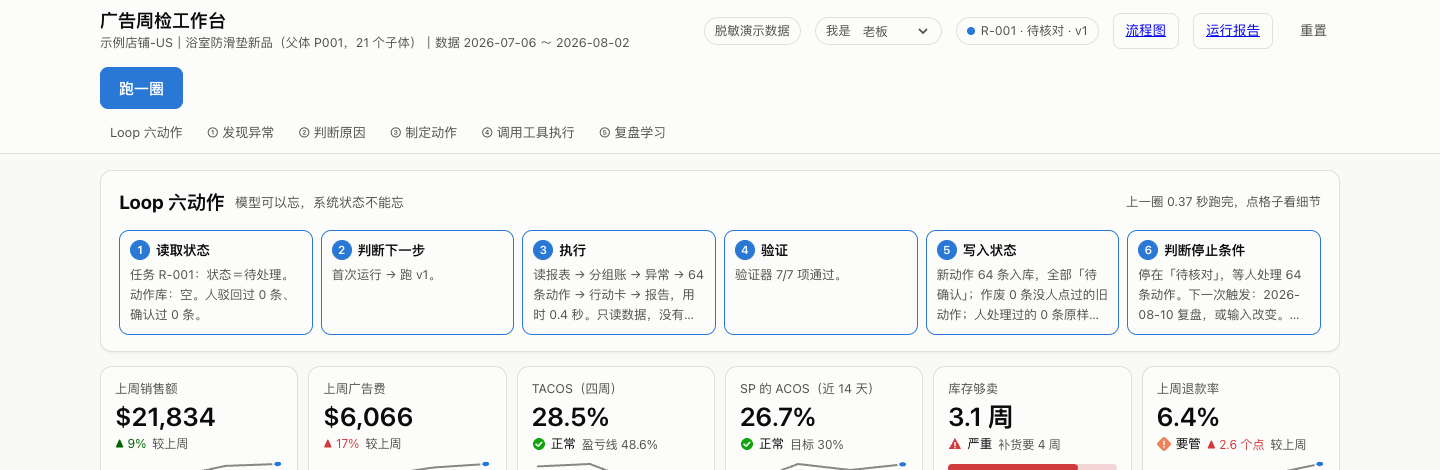
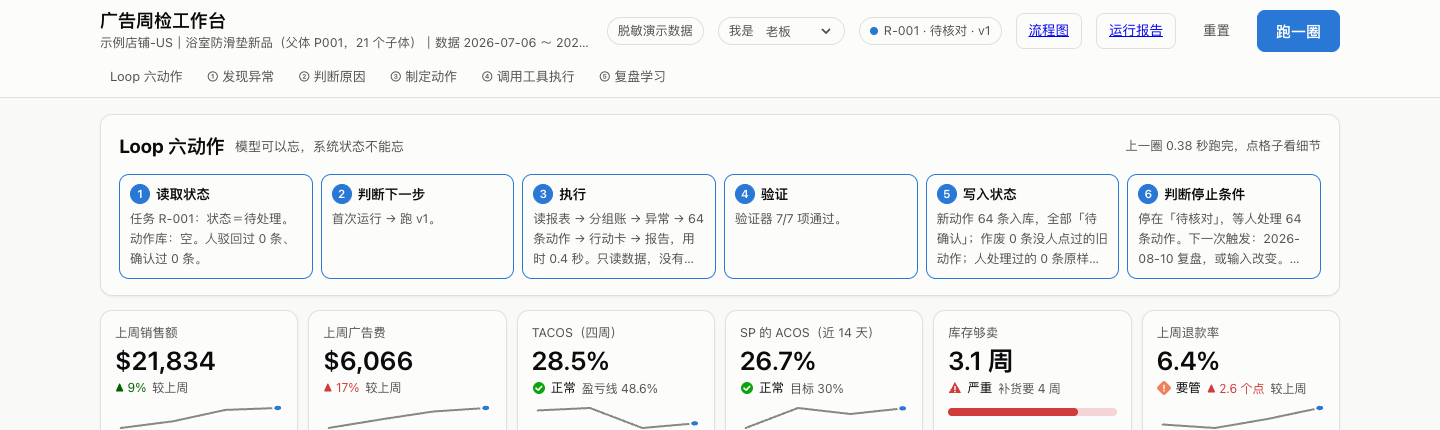
ads-workbench: 顶栏在 1440 宽下不再换行，重截首屏图 @Claude Code

diff --git a/工作台/index.html b/工作台/index.html
@@ -10,7 +10,7 @@
 button,select,input{font:inherit;color:inherit}button{cursor:pointer}
 header{position:sticky;top:0;z-index:20;background:var(--surface);border-bottom:1px solid var(--line)}
 .bar{max-width:1280px;margin:0 auto;padding:10px 20px;display:flex;align-items:center;gap:14px;flex-wrap:wrap}
-.brand{display:flex;flex-direction:column;min-width:240px;max-width:46%;margin-right:auto}.brand b{font-size:18px;line-height:1.25}.brand span{color:var(--ink2);font-size:12.5px;white-space:nowrap;overflow:hidden;text-overflow:ellipsis}
+.brand{display:flex;flex-direction:column;flex:1 1 0;min-width:180px;overflow:hidden}.brand b{font-size:18px;line-height:1.25}.brand span{color:var(--ink2);font-size:12.5px;white-space:nowrap;overflow:hidden;text-overflow:ellipsis}
 .pill{display:inline-flex;align-items:center;gap:6px;border:1px solid var(--line);border-radius:999px;padding:3px 10px;font-size:12.5px;color:var(--ink2);background:var(--surface);white-space:nowrap}
 .dot{width:8px;height:8px;border-radius:50%;background:var(--muted);flex:none}
 .btn{border:1px solid var(--line);background:var(--surface);border-radius:8px;padding:6px 12px;font-size:13.5px}.btn:hover{border-color:var(--axis)}.btn.primary{background:var(--accent);border-color:var(--accent);color:#fff;font-weight:600;padding:8px 18px;font-size:15px}
